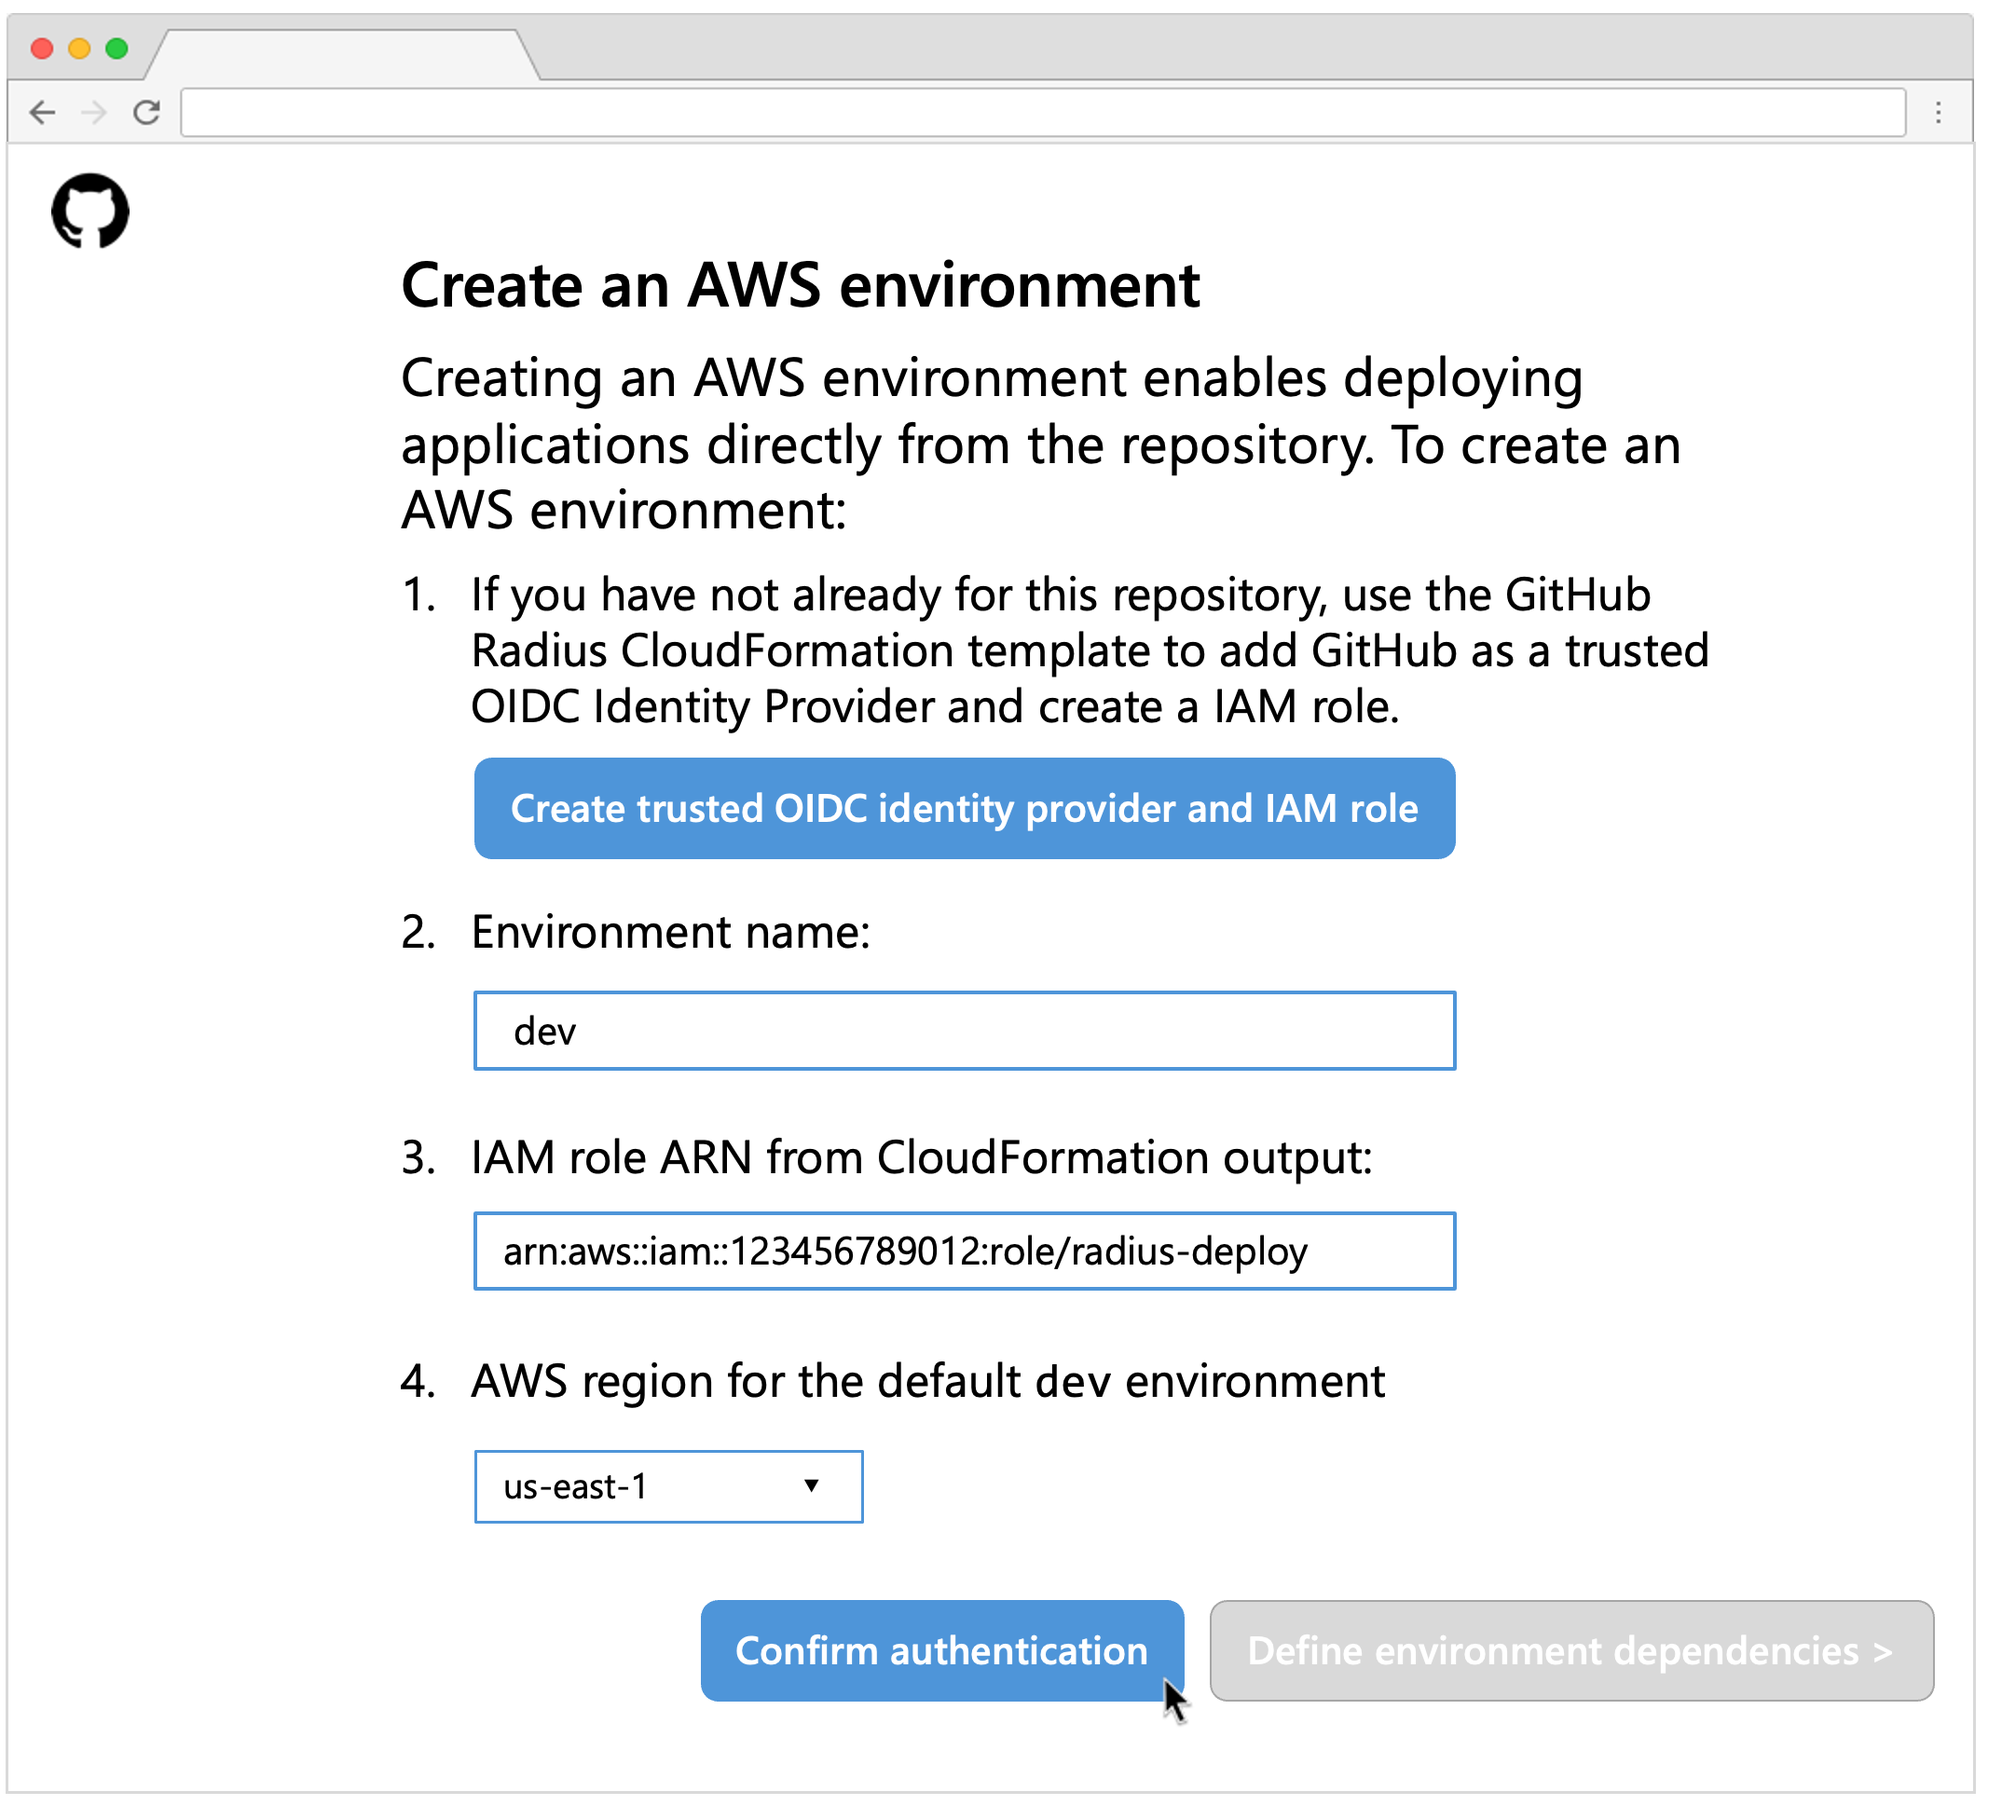
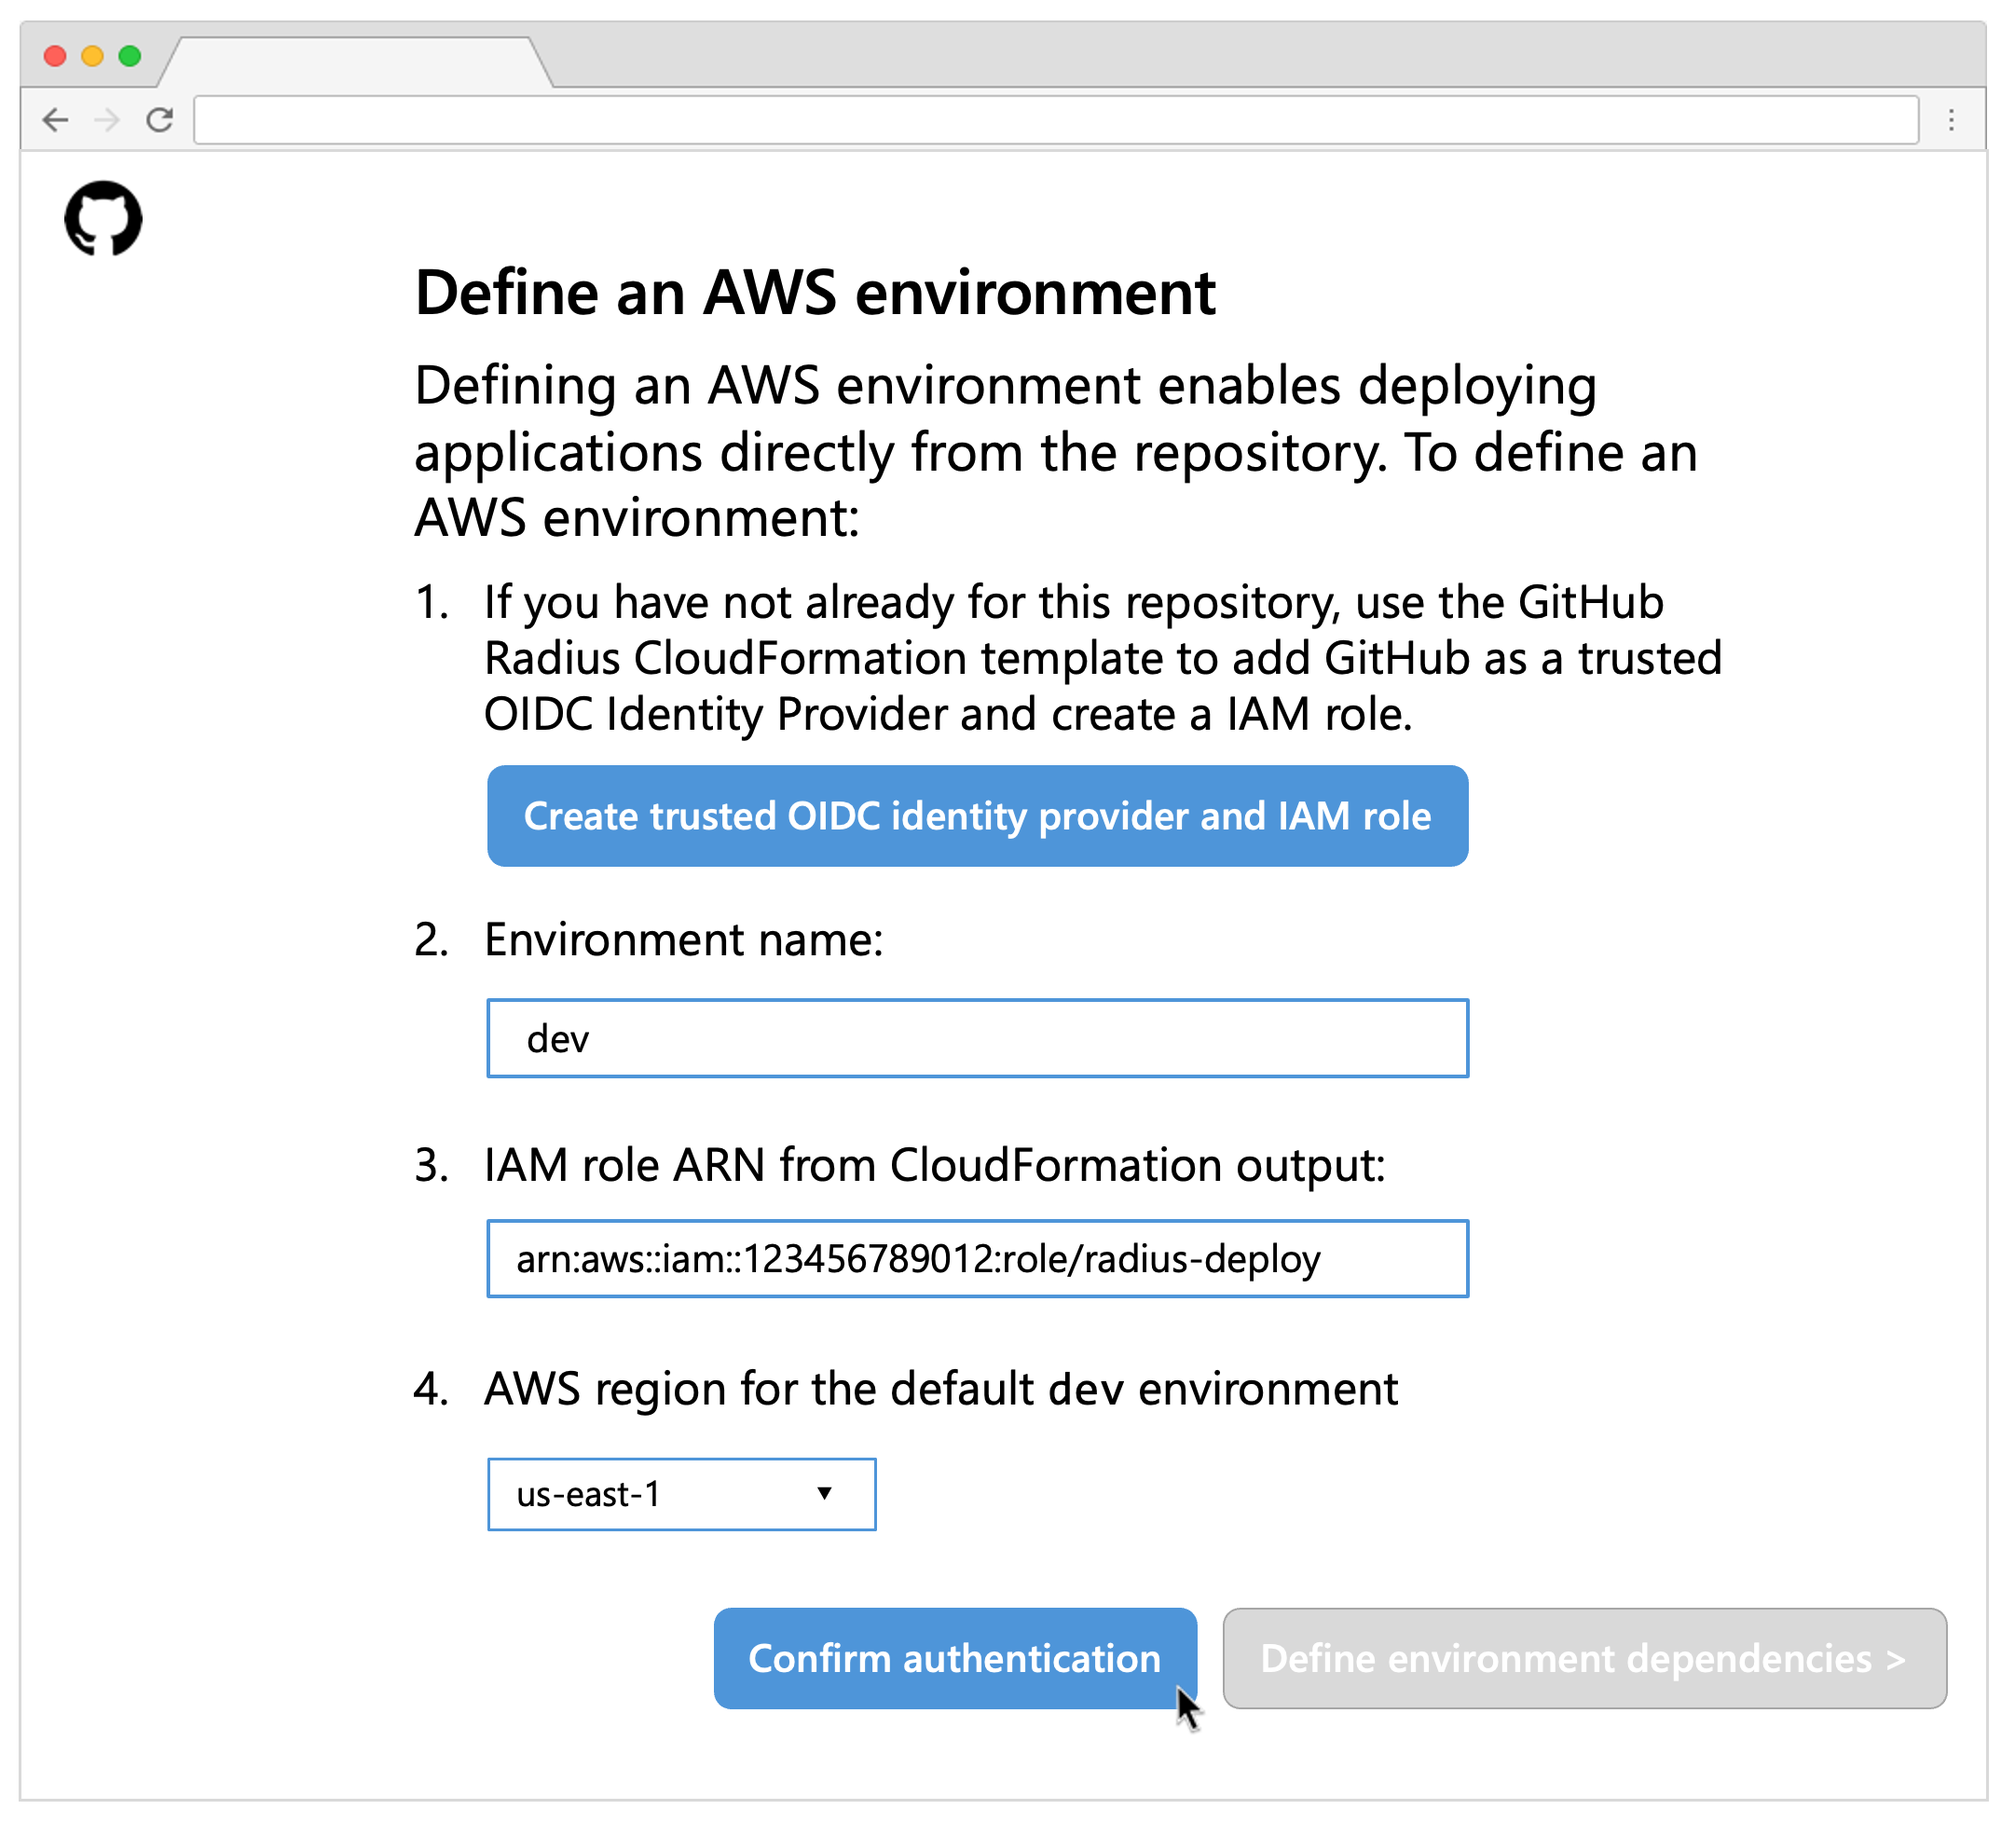
Change crete env to define env

diff --git a/eng/design-notes/github/2026-03-github-radius-feature-spec.md b/eng/design-notes/github/2026-03-github-radius-feature-spec.md
@@ -77,8 +77,8 @@ The following user journeys are out of scope for the initial prototype, but will
 
 1. The user clicks back to the main repository page.
    
-###  Step 3: Creating an AWS environment
-1. The user clicks on Environments and sees options for creating AWS, Azure, or Google Cloud environments. The user clicks **Create AWS environment**.
+###  Step 3: Defining an AWS environment
+1. The user clicks on Environments and sees options for creating AWS, Azure, or Google Cloud environments. The user clicks **Define an AWS environment**.
 
     ![image6](2026-03-github-radius-feature-spec/image6.png)
 
